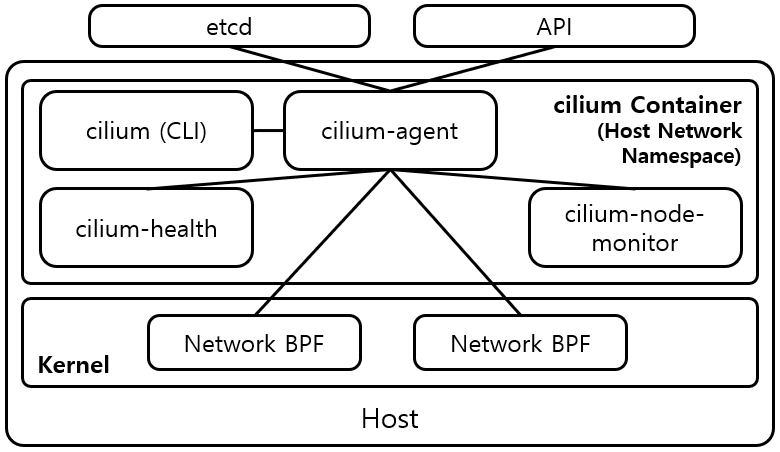
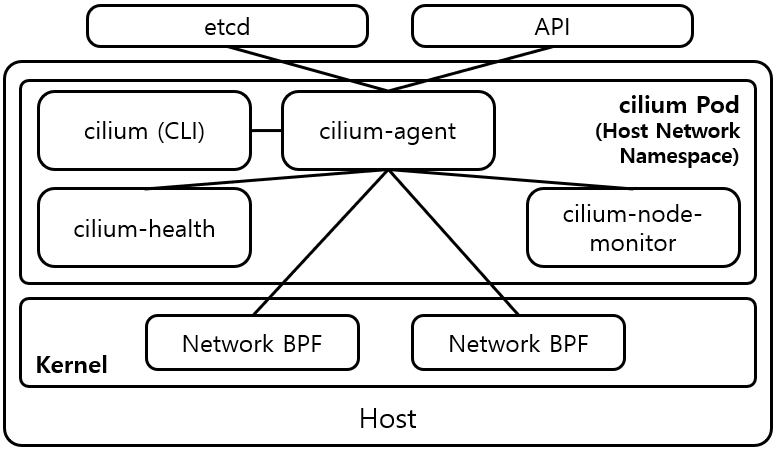
Update

diff --git a/_docs/theory_analysis/Kubernetes_Cilium_Plugin.md b/_docs/theory_analysis/Kubernetes_Cilium_Plugin.md
@@ -13,13 +13,13 @@ Kubernetes Network Plugin인 Cilium을 분석한다.
 
 ![[그림 1] Cilium 구성요소]({{site.baseurl}}/images/theory_analysis/Kubernetes_Cilium_Plugin/Cilium_Components.PNG){: width="600px"}
 
-Cilium은 **BPF (Berkeley Packet Filter)**를 기반으로 Pod Network를 구축하는 Tool이다. Kubernetes의 Network Plugin으로 많이 이용되고 있다. [그림 1]은 Kubernetes의 Plugin으로 동작하는 Cilium의 구성요소를 나타내고 있다. 크게 **etcd, cilium-agent, BPF** 3가지로 구성되어 있다. cilium-agent는 모든 Kubernetes Host 위에서 동작하는 cilium Pod안에서 동작한다. cilium Pod은 Host(Node)의 Network Namespace를 이용하기 때문에 calico-node Pod안에서 동작하는 App은 Host의 Network 설정을 조회하거나 제어 할 수 있다.
+Cilium은 **BPF (Berkeley Packet Filter)**를 기반으로 Pod Network를 구축하는 CNI Plugin이다. Kubernetes의 Network Plugin으로 많이 이용되고 있다. [그림 1]은 Kubernetes의 Plugin으로 동작하는 Cilium의 구성요소를 나타내고 있다. 크게 **etcd, cilium-agent, BPF** 3가지로 구성되어 있다. cilium-agent는 모든 Kubernetes Host 위에서 동작하는 cilium Pod안에서 동작한다. cilium Pod은 Host(Node)의 Network Namespace를 이용하기 때문에 cilium Pod안에서 동작하는 App은 Host의 Network 설정을 조회하거나 제어 할 수 있다.
 
 * etcd : etcd는 분산 Key-Value store이다. Cilium 구동에 필요한 Network 구성/설정 정보, Cilium 설정 정보 등 다양한 정보를 저장한다. 또한 저장한 key-value값이 변경될 경우 cilium-agent에게 변경 정보를 전달하는 Communication Bus 역활도 수행한다.
 
 * cilium-agent : cilium-agent는 Host의 Network를 설정 및 Monitoring을 하는 Daemon이다. 필요에 따라 BPF를 Linux Kernel에 삽입하고 제어한다. 또한 cilium-agent는 cilium-node-monitor 및 cilium-health 실행한다. cilium-node-monitor는 BPF의 Event를 수신하고 전달한다. cilium-health는 cilium-agent의 상태를 외부의 Host에게 전달하거나, 외부 Host의 cilium-agent의 상태 정보를 얻는다. cilium-agent는 API 또는 cilium CLI를 통해서 제어가 가능하다.
 
-* BPF : BPF는 Linux Kernel 안에서 Packet Routing 및 Filtering을 수행한다. BPF는 기존의 Linux Netfilter Framework 기반의 iptables에 비해서 낮은 Overhead 및 높은 성능이 가장 큰 장점이다. Cilium은 BPF 이용을 통해서 Netfilter Framework 사용을 최소화하여 Network 성능을 끌어올린다.
+* BPF : BPF는 Linux Kernel 안에서 Packet Routing 및 Filtering을 수행한다. 일반적으로 BPF는 기존의 Linux Netfilter Framework 기반의 iptables 및 Routing Table에 비해서 낮은 Network Stack에서 동작하기 때문에 높은 성능이 가장 큰 장점이다. Cilium은 BPF 이용을 통해서 Netfilter Framework 및 Routing Table의 사용을 최소화하여 Network 성능을 끌어올린다.
 
 #### 1.1. Pod Network
 
@@ -29,21 +29,49 @@ Cilium은 Pod Network를 구축하는 방법으로 VXLAN 기반의 기법과 Hos
 
 ![[그림 2] Cilium VXLAN Pod Network]({{site.baseurl}}/images/theory_analysis/Kubernetes_Cilium_Plugin/Cilium_Network_VXLAN.PNG)
 
-[그림 2]는 Cilium과 VXLAN을 이용하여 구축한 Pod Network를 나타낸다. Host의 Network는 10.0.0.0/24이고, Pod Network는 10.244.0.0/16이다. Cilium은 etcd에 저장된 정보를 바탕으로 각 Host에 Pod Network를 할당한다. 그림에서 Host 1은 192.167.2.0/24 Network가 할당되었다. 따라서 Host 1에 생긴 Pod A의 IP는 192.167.2.0/24 Network에 속한 IP인 192.167.2.10을 이용한다. Host 2에는 192.167.3.0/24 Network가 할당되었기 때문에 Host 2에 생긴 Pod B의 IP는 192.167.3.0/24 Network에 속한 IP인 192.167.3.10를 이용한다.
+[그림 2]는 Cilium과 VXLAN을 이용하여 구축한 Pod Network를 나타낸다. Host의 Network는 10.0.0.0/24이고, Pod Network는 10.244.0.0/16이다. Cilium은 etcd에 저장된 정보를 바탕으로 각 Host에 Pod Network를 할당한다. 그림에서 Host 1은 192.167.2.0/24 Network가 할당되었다. 따라서 Host 1에 생긴 Pod A의 IP는 192.167.2.0/24 Network에 속한 IP인 192.167.2.10을 이용한다. Host 2에는 192.167.3.0/24 Network가 할당되었기 때문에 Host 2에 생긴 Pod C의 IP는 192.167.3.0/24 Network에 속한 IP인 192.167.3.10를 이용한다.
 
-Pod Network 구축시 이용하는 BPF는 VXLAN Interface에 붙는 tc action ingress BPF, Pod의 veth Interface에 붙는 tc action ingress BPF, Cilium을 위해 Host에 생성한 veth Inteface인 cilium_host에 붙는 tc action engress BPF, 3가지 BPF가 이용된다. VXLAN Interface에 붙는 tc action ingress BPF은 cilium-agent가 BPF Map에 저장한 Pod의 IP, MAC 주소 정보를 Packet과 함께 L3 Network Stack에 넘겨, L3 Network Stack에서 Packet이 Pod으로 바로 Routing 되도록 한다. Pod의 veth Interface에 붙는 tc action ingress BPF는 Pod으로 전달되는 Packet을 Filtering한다. L3, L4, L7 Filtering을 지원한다. Cilium에서는 Pod이 특정 Pod으로부터온 Packet만을 받을 수 있도록 설정하거나, Pod이 특정 URL로 오는 요청만 받도록 설정 할 수 있다.
+{% highlight text %}
+# cilium map get cilium_lxc
+Key               Value                                                                               State   Error
+30.0.0.160:0      (localhost)                                                                         sync
+192.167.1.138:0   (localhost)                                                                         sync
+192.167.1.235:0   id=829   flags=0x0000 ifindex=8   mac=F2:EC:03:FC:7A:BF nodemac=FA:7D:9E:AF:1E:01   sync
+192.167.1.139:0   id=53    flags=0x0000 ifindex=10  mac=DE:B8:9A:BA:37:5E nodemac=D6:EB:D8:44:E9:AD   sync    
+# cilium endpoint list
+ENDPOINT   POLICY (ingress)   POLICY (egress)   IDENTITY   LABELS (source:key[=value])                       IPv6   IPv4            STATUS
+           ENFORCEMENT        ENFORCEMENT
+691        Disabled           Disabled          32535      k8s:io.cilium.k8s.policy.cluster=default                 192.167.2.176   ready
+                                                           k8s:io.cilium.k8s.policy.serviceaccount=default
+                                                           k8s:io.kubernetes.pod.namespace=default
+                                                           k8s:run=my-nginx
+2296       Disabled           Disabled          104        k8s:io.cilium.k8s.policy.cluster=default                 192.167.2.194   ready
+                                                           k8s:io.cilium.k8s.policy.serviceaccount=coredns
+                                                           k8s:io.kubernetes.pod.namespace=kube-system
+                                                           k8s:k8s-app=kube-dns
+3424       Disabled           Disabled          104        k8s:io.cilium.k8s.policy.cluster=default                 192.167.2.32    ready
+                                                           k8s:io.cilium.k8s.policy.serviceaccount=coredns
+                                                           k8s:io.kubernetes.pod.namespace=kube-system
+                                                           k8s:k8s-app=kube-dns
+3787       Disabled           Disabled          4          reserved:health                                          192.167.2.88    ready 
+{% endhighlight %}
+<figure>
+<figcaption class="caption">[Shell 1] Cilium Endpoint</figcaption>
+</figure>
 
-Pod에서 전송된 Packet은 Pod의 veth Interface에서 나와 Note의 Routing Table로 전달된다. Note Routing Table에서는 모든 Pod Network Packet이 cilium_host로 전달되도록 설정되어 있다. 따라서 Pod에서 나온 Packet은 모두 cilium_host의 tc action engress BPF에게 Routing 된다. cilium_host의 tc action engress BPF에서는 동일 Host로 다시 전달 되어야하는 Packet은 해당 Contianer의 veth Interface로 Routing하고, 외부 Host로 전달 되어야하는 Packet은 VXLAN Interface로 Redirection되어 Host 밖으로 나간다.
+Pod Network 구축시 이용하는 주요 BPF는 VXLAN Interface에 붙는 tc action ingress BPF, Pod의 veth Interface에 붙는 tc action ingress BPF, Cilium을 위해 Host에 생성한 veth Inteface인 cilium_host에 붙는 tc action engress BPF, 3가지 BPF가 이용된다. 모든 BPF는 Packet의 Dest IP가 Pod의 IP라면, Packet을 Pod으로 바로 **Routing**한다. Cilium이 이용하는 etcd에는 **Endpoint**라는 이름으로 Cilium이 관리하는 모든 Pod의 IP, MAC을 저장하고 관리하고 있다. cilium-agent는 자신이 동작하고 있는 Host의 Pod의 IP를 etcd로부터 얻어와 BPF Map에 저장한다. [Shell 1]은 'cilium map get cilium_lxc' 또는 'cilium endpoint list' 명령어를 이용하여 특정 Host에 있는 모든 Pod의 IP를 조회하는 Shell의 모습을 나타내고 있다. BPF는 BPF Map에 저장한 Pod의 IP 정보를 바탕으로 Packet을 Pod으로 Routing한다.
+
+특정 Pod에서 같은 Host에 있는 Pod으로 Packet을 전송하는 경우, Packet은 Routing Table을 거치지 않고, Pod의 veth Interface에 붙는 tc action ingress BPF만을 이용하여 Packet을 주고 받는다. [그림 2]의 Pod A/B 또는 Pod C/D의 Packet 경로가 예가 될 수 있다. 특정 Pod에서 다른 Host에 있는 Pod에 Packet을 전송하는 경우, Packet은 Routing Table로 전달되고 Routing Table의 Rule에 따라서 Packet은 다시 cilium_host의 tc action engress BPF로 전달된다. cilium_host의 tc action engress BPF은 전달 받은 Packet의 Dest IP가 유효한지 검사한 다음, 유효하다면 cilium_vxlan으로 Routing한다. cilium_vxlan으로 전달된 Packet은 Packet의 Dest Pod이 있는 Host의 cilium_vxlan의 tc action ingress으로 전달되고, 다시 Routing되어 해당 Pod으로 전달된다. [그림 2]의 Pod A/B와 Pod C/D의 경로가 예가 될 수 있다.
+
+특정 Pod에서 Pod이 아닌 외부로 Packet을 전송하게 되면 Packet을 Routing Table에 전달되고, Routing Table의 Rule에 따라서 Packet은 Routing Table의 Rule에 따라서 전달된다. [그림 2]에서 Pod이 외부로 전송한 Packet은 Routing Table에 의해서 바로 eth0로 전달되어 외부로 전달된다. Pod Network NS에 존재하는 Process가 아닌 Host의 Network NS에 존재하는 Process도 Pod의 IP로 Packet을 전달할 경우 Routing Table에 의해서 Packet은 cilium_host의 tc action engress BPF로 전달되기 때문에 해당 Pod과 Packet을 주고 받을 수 있다.
 
 ##### 1.1.2. with Host L3
 
 ![[그림 3] Cilium Host L3 Pod Network]({{site.baseurl}}/images/theory_analysis/Kubernetes_Cilium_Plugin/Cilium_Network_Host.PNG)
 
-[그림 3]은 Host L3 Network를 이용하여 구축한 Pod Network를 나타낸다. 각 Host에 할당된 Pod Network, Host IP, Pod IP는 VXLAN 기법의 예제와 동일하다. VXLAN 기법과의 차이점은 VXLAN Interface 및 VXLAN Interface에 붙는 tc action ingress BPF가 존재하지 않는다. Host의 Routing Table에는 각 Host에게 할당된 Pod Network 관련 Rule만 있다. Host 1의 Routing Table에는 Host 1에 할당된 Pod Network인 192.167.2.0/24 관련 Rule만 있지 Host 2에 할당된 Pod Network인 192.167.3.0/24 관련 Rule은 없다. 마지막으로 Host 사이에는 반드시 L3 Router가 존재한다.
+[그림 3]은 Host L3 Network를 이용하여 구축한 Pod Network를 나타낸다. 각 Host에 할당된 Pod Network, Host IP, Pod IP는 VXLAN 기법의 예제와 동일하다. VXLAN 기법과의 차이점은 VXLAN Interface 및 VXLAN Interface에 붙는 tc action ingress BPF가 존재하지 않는다. Host의 Routing Table에는 각 Host에게 할당된 Pod Network 관련 Rule만 있다. [그림 3]에서 Host 1의 Routing Table에는 Host 1에 할당된 Pod Network인 192.167.2.0/24 관련 Rule만 있지 Host 2에 할당된 Pod Network인 192.167.3.0/24 관련 Rule은 없다. 마지막으로 Host 사이에는 반드시 L3 Router가 존재한다. L3 Router는 각 Host에 할당된 Pod Network 정보를 바탕으로 Pod으로 전달해야할 Packet을 적절한 Host로 Routing 해야한다.
 
-Pod에게 전달되어야 하는 Packet은 Host가 수신한 뒤 Host의 Routing Table에 따라서 cilium_host Interface로 전달된다. cilium_host의 tc action engress BPF에서는 Pod의 veth로 Packet을 Routing하여 Pod에게 Packet을 전달한다. Pod으로부터 전송된 Packet은 veth를 통해서 Host의 Routing Table에 전달되고, Packet의 목적지가 같은 Host에 있는 Pod이라면 cilium_host로 Routing되고 아니라면 eth0으로 Routing되어 Host 밖으로 전달된다. Host에서 나온 Packet은 Router에 의해서 적절한 Node로 Routing된다.
-
-Router는 Host Network Routing Rule뿐만 아니라 Pod Network 관련 Routing Rule도 알고 있어야 한다. [그림 3]에서 Router는 192.167.2.0/24 Pod Network를 Node 1로 Routing 및 192.167.3.0/24 Pod Network를 Node 2로 Routing 하도록 설정되어 있어야 한다. 따라서 Host L3 Network 기법은 Host를 연결하는 Router를 자유롭게 제어가능한 환경에서만 적용이 가능하다.
+특정 Pod에서 같은 Host에 있는 Pod으로 Packet을 전송하는 경우에는 VXLAN을 이용할 경우와 동일하다. 특정 Pod에서 다른 Host에 있는 Pod에 Packet을 전송하는 경우, Packet은 Routing Table에 따라서 외부의 L3 Router에 전달된다. L3 Router는 Packet을 Pod이 존재하는 Host로 전송하고, Packet을 받은 Host는 Routing Table에 따라서 해당 Pod으로 전달한다. [그림 2]의 Pod A/B와 Pod C/D의 경로가 예가 될 수 있다. Pod Network NS에 존재하는 Process가 아닌 Host의 Network NS에 존재하는 Process도 Pod의 IP로 Packet을 전달할 경우에도 VXLAN을 이용할 경우와 동일하다.
 
 #### 1.2. Service Load Balancing
 
@@ -55,7 +83,13 @@ Router는 Host Network Routing Rule뿐만 아니라 Pod Network 관련 Routing R
 
 ![[그림 4] Cilium Service Load Balancing with Host L3]({{site.baseurl}}/images/theory_analysis/Kubernetes_Cilium_Plugin/Cilium_Service_VXLAN.PNG)
 
-#### 1.3. Prefilter
+#### 1.4. Filtering
+
+##### 1.4.1. Policy
+
+VXLAN Interface에 붙는 tc action ingress BPF은 cilium-agent가 BPF Map에 저장한 Pod의 IP, MAC 주소 정보를 Packet과 함께 L3 Network Stack에 넘겨, L3 Network Stack에서 Packet이 Pod으로 바로 Routing 되도록 한다. Pod의 veth Interface에 붙는 tc action ingress BPF는 Pod으로 전달되는 Packet을 Filtering한다. L3, L4, L7 Filtering을 지원한다. Cilium에서는 Pod이 특정 Pod으로부터온 Packet만을 받을 수 있도록 설정하거나, Pod이 특정 URL로 오는 요청만 받도록 설정 할 수 있다.
+
+##### 1.4.2. Prefilter
 
 ![[그림 5] Cilium Prefilter]({{site.baseurl}}/images/theory_analysis/Kubernetes_Cilium_Plugin/Cilium_Prefilter.PNG)
 
